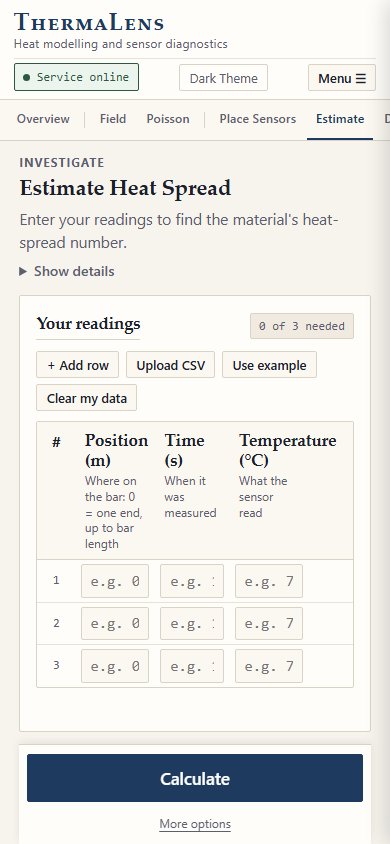
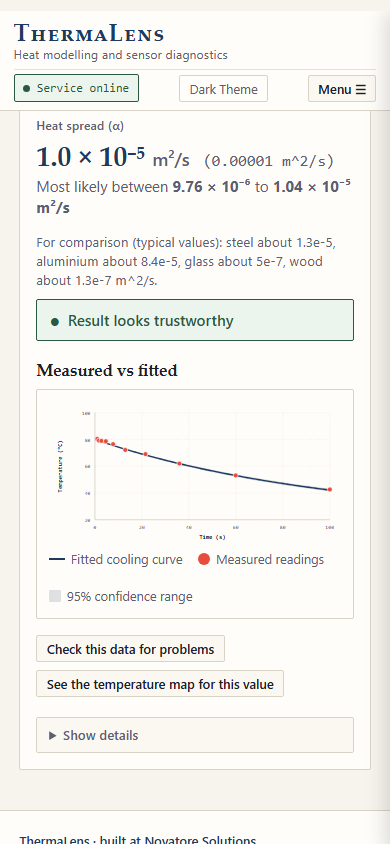
feat(estimate): comment out setup loader, add setup mismatch safety warning and result readability comparison, bump to thermalens-v40

diff --git a/service/static/app.js b/service/static/app.js
@@ -370,6 +370,17 @@ function formatScientificReal(val, sigDigits = 2) {
   return `${mantissa} × 10${supExp}`;
 }
 
+function formatPlainDecimal(val, sigFigs = 2) {
+  if (val === null || val === undefined || isNaN(val)) return '-';
+  if (val === 0) return '0';
+  if (Math.abs(val) >= 1) return Number(val.toPrecision(sigFigs)).toString();
+  const order = Math.floor(Math.log10(Math.abs(val)));
+  const dec = Math.max(0, -order + sigFigs - 1);
+  let s = val.toFixed(dec);
+  s = s.replace(/(\.\d*?[1-9])0+$/, '$1');
+  return s;
+}
+
 function computeNiceAxis(minVal, maxVal, targetCount = 4) {
   const span = maxVal - minVal;
   if (span <= 0) return { min: minVal, max: maxVal + 1, ticks: [minVal, maxVal + 1] };
@@ -418,6 +429,42 @@ const DEFAULT_ESTIMATE_SCALED_ROWS = [
 ];
 
 const DEFAULT_ESTIMATE_EXAMPLE = DEFAULT_ESTIMATE_EXAMPLE_ROWS.map(r => `${r.x}, ${r.t}, ${r.u}`).join('\n');
+
+function isUneditedDefaultExampleReadings() {
+  const tbody = document.getElementById('est-table-tbody');
+  if (!tbody || tbody.children.length !== DEFAULT_ESTIMATE_EXAMPLE_ROWS.length) return false;
+  const rows = Array.from(tbody.children);
+  for (let i = 0; i < rows.length; i++) {
+    const inputs = rows[i].querySelectorAll('.cell-input');
+    if (!inputs || inputs.length < 3) return false;
+    const x = parseFloat(inputs[0].value);
+    const t = parseFloat(inputs[1].value);
+    const u = parseFloat(inputs[2].value);
+    const expected = DEFAULT_ESTIMATE_EXAMPLE_ROWS[i];
+    if (isNaN(x) || isNaN(t) || isNaN(u)) return false;
+    if (Math.abs(x - expected.x) > 1e-3 || Math.abs(t - expected.t) > 1e-3 || Math.abs(u - expected.u) > 1e-2) {
+      return false;
+    }
+  }
+  return true;
+}
+
+function isDefaultExampleSetup() {
+  const L = parseFloat(document.getElementById('est-bar-length')?.value || '0.1');
+  const T = parseFloat(document.getElementById('est-experiment-time')?.value || '100');
+  const Tb = parseFloat(document.getElementById('est-temp-edge')?.value || '20');
+  const Tp = parseFloat(document.getElementById('est-temp-peak')?.value || '80');
+  return Math.abs(L - 0.1) < 1e-4 && Math.abs(T - 100.0) < 1e-4 && Math.abs(Tb - 20.0) < 1e-4 && Math.abs(Tp - 80.0) < 1e-4;
+}
+
+function checkEstimateExampleMismatch() {
+  const noteAboveTable = document.getElementById('est-example-mismatch-note');
+  const isMismatch = isUneditedDefaultExampleReadings() && !isDefaultExampleSetup();
+  if (noteAboveTable) {
+    noteAboveTable.style.display = isMismatch ? 'flex' : 'none';
+  }
+  return isMismatch;
+}
 
 // -------------------------------------------------------------------------------------------------
 // Shared Readings Across Tabs ("My readings")
@@ -650,6 +697,8 @@ function clearEstimateResultState() {
   if (stateContainer) stateContainer.innerHTML = '';
   const estCrossBanner = document.getElementById('est-crosscheck-banner');
   if (estCrossBanner) estCrossBanner.style.display = 'none';
+  const resMismatchNote = document.getElementById('est-result-mismatch-note');
+  if (resMismatchNote) resMismatchNote.style.display = 'none';
 }
 
 function validateEstimateTable() {
@@ -856,12 +905,14 @@ function initEstimateWorkbench() {
     barLengthInput.addEventListener('input', () => {
       validateEstimateTable();
       clearEstimateResultState();
+      checkEstimateExampleMismatch();
     });
   }
   if (expDurationInput) {
     expDurationInput.addEventListener('input', () => {
       validateEstimateTable();
       clearEstimateResultState();
+      checkEstimateExampleMismatch();
     });
   }
 
@@ -872,12 +923,14 @@ function initEstimateWorkbench() {
     tempPeakInput.addEventListener('input', () => {
       validateEstimateTable();
       clearEstimateResultState();
+      checkEstimateExampleMismatch();
     });
   }
   if (tempEdgeInput) {
     tempEdgeInput.addEventListener('input', () => {
       validateEstimateTable();
       clearEstimateResultState();
+      checkEstimateExampleMismatch();
     });
   }
 
@@ -1020,6 +1073,7 @@ function initEstimateWorkbench() {
       if (e.target.classList.contains('cell-input')) {
         validateEstimateTable();
         clearEstimateResultState();
+        checkEstimateExampleMismatch();
         syncSharedReadings('est');
       }
     });
@@ -1099,6 +1153,7 @@ function initEstimateWorkbench() {
         if (heatSine) heatSine.checked = true;
         setEstimateRows(DEFAULT_ESTIMATE_EXAMPLE_ROWS, 'use_example');
       }
+      checkEstimateExampleMismatch();
       STATE.isEstimateDemo = false;
       const note = document.getElementById('est-removed-sensor-note');
       if (note) note.style.display = 'none';
@@ -1573,12 +1628,13 @@ async function executeParameterEstimate() {
       if (sublineEl) sublineEl.textContent = 'The twin could not calculate a trustworthy heat spread from these readings.';
     } else if (isRealResult) {
       const alphaStr = formatScientificReal(alphaHat, 2);
+      const plainDec = formatPlainDecimal(alphaHat);
       const ciLoStr = formatScientificReal(ci95[0], 3);
       const ciHiStr = formatScientificReal(ci95[1], 3);
 
       if (labelEl) labelEl.textContent = 'Heat spread (α)';
-      if (numberEl) numberEl.innerHTML = `${alphaStr} <span style="font-size: 1.1rem; font-weight: 500; font-family: var(--font-sans); color: var(--text-muted);">m&sup2;/s</span>`;
-      if (headlineEl) headlineEl.innerHTML = `Heat spread (α): <strong>${alphaStr} m&sup2;/s</strong>`;
+      if (numberEl) numberEl.innerHTML = `${alphaStr} <span style="font-size: 1.1rem; font-weight: 500; font-family: var(--font-sans); color: var(--text-muted);">m&sup2;/s</span> <span id="est-decimal-value" class="mono" style="font-size: 1rem; font-weight: 400; color: var(--text-muted); margin-left: 0.4rem;">(${plainDec} m^2/s)</span>`;
+      if (headlineEl) headlineEl.innerHTML = `Heat spread (α): <strong>${alphaStr} m&sup2;/s (${plainDec} m^2/s)</strong>`;
       if (sublineEl) sublineEl.innerHTML = `Most likely between <strong>${ciLoStr}</strong> to <strong>${ciHiStr} m&sup2;/s</strong>`;
     } else {
       if (labelEl) labelEl.textContent = 'Heat spread (α)';
@@ -1587,7 +1643,19 @@ async function executeParameterEstimate() {
       if (sublineEl) sublineEl.innerHTML = `Most likely between <strong>${ci95[0].toFixed(3)}</strong> to <strong>${ci95[1].toFixed(3)}</strong>`;
     }
 
-    // Traffic-Light Line
+    const matComp = document.getElementById('est-material-comparison');
+    if (matComp) {
+      matComp.style.display = isRealResult ? 'block' : 'none';
+      matComp.textContent = 'For comparison (typical values): steel about 1.3e-5, aluminium about 8.4e-5, glass about 5e-7, wood about 1.3e-7 m^2/s.';
+    }
+
+    // Traffic-Light Line & Mismatch Check
+    const isMismatch = isUneditedDefaultExampleReadings() && !isDefaultExampleSetup();
+    const resMismatchNote = document.getElementById('est-result-mismatch-note');
+    if (resMismatchNote) {
+      resMismatchNote.style.display = isMismatch ? 'flex' : 'none';
+    }
+
     const banner = document.getElementById('est-traffic-banner');
     const bannerTitle = document.getElementById('est-traffic-title');
     let bannerLevel = 'green';
@@ -1596,6 +1664,9 @@ async function executeParameterEstimate() {
     if (flags.model_invalid) {
       bannerLevel = 'red';
       bannerText = "We can't give a reliable number: your readings do not fit the heat model";
+    } else if (isMismatch) {
+      bannerLevel = 'amber';
+      bannerText = 'Check this result: setup and example readings disagree';
     } else if (flags.out_of_range || flags.at_bound) {
       bannerLevel = 'amber';
       bannerText = 'Check this result: value is near the edge of the tested range';
@@ -2481,6 +2552,7 @@ function initDiagnoseWorkbench() {
       renderOptions(diagProfileSelect);
       if (estProfileSelect) renderOptions(estProfileSelect);
 
+      /* HIDDEN-UI: estimate bar setup loader (uncomment to restore)
       const estLoadSetupSelect = document.getElementById('est-load-setup-select');
       if (estLoadSetupSelect) {
         estLoadSetupSelect.innerHTML = '<option value="">— Select a saved bar\'s setup —</option>';
@@ -2507,6 +2579,7 @@ function initDiagnoseWorkbench() {
           estLoadSetupSelect.appendChild(gSaved);
         }
       }
+      */
 
       const targetId = selectedProfileId || (STATE.currentProfile ? STATE.currentProfile.id : null);
       if (targetId && profiles.some(p => p.id === targetId)) {
@@ -2653,6 +2726,7 @@ function initDiagnoseWorkbench() {
       selectAndApplyProfile(e.target.value);
     });
   }
+  /* HIDDEN-UI: estimate bar setup loader (uncomment to restore)
   const estLoadSetupSelect = document.getElementById('est-load-setup-select');
   if (estLoadSetupSelect) {
     estLoadSetupSelect.addEventListener('change', (e) => {
@@ -2672,8 +2746,10 @@ function initDiagnoseWorkbench() {
       if (estSig) estSig.value = String(profile.sensor_accuracy || 0.5);
       if (typeof validateEstimateTable === 'function') validateEstimateTable();
       clearEstimateResultState();
+      checkEstimateExampleMismatch();
     });
   }
+  */
 
   // Check differences and matching suggestions
   function checkProfileSetupDifferencesAndSuggestions() {

diff --git a/service/static/index.html b/service/static/index.html
@@ -5,7 +5,7 @@
   <meta name="viewport" content="width=device-width, initial-scale=1.0">
   <title>ThermaLens — Thermal PDE Inference &amp; Diagnostics Instrument</title>
   <meta name="description" content="Production-grade physical parameter estimation, multi-hypothesis sensor anomaly diagnostics, and neural operator PDE inference.">
-  <link rel="stylesheet" href="style.css?v=thermalens-v39">
+  <link rel="stylesheet" href="style.css?v=thermalens-v40">
 </head>
 <body>
 
@@ -381,6 +381,12 @@
             <button type="button" class="btn btn-secondary btn-sm" id="est-undo-remove-sensor-btn" style="padding: 0.15rem 0.5rem; font-size: 0.8rem;">Undo</button>
           </div>
 
+          <!-- Note when custom setup differs from default example readings -->
+          <div id="est-example-mismatch-note" class="traffic-light-line amber" style="display: none; margin-bottom: 0.75rem;">
+            <span class="traffic-light-dot">▲</span>
+            <span id="est-example-mismatch-text">These readings were made for the default example bar (0.1 m, 100 s, 20 to 80 C). Replace them with your own readings before estimating.</span>
+          </div>
+
           <!-- Editable Table -->
           <div class="readings-table-wrap">
             <table class="readings-table" id="est-readings-table">
@@ -414,13 +420,15 @@
         <div class="card" id="est-about-test-card">
           <h2 class="card-title">About your test</h2>
           
-          <!-- Optional shortcut: Load a saved bar's setup -->
+          <!-- HIDDEN-UI: estimate bar setup loader (uncomment to restore) -->
+          <!--
           <div style="margin-bottom: 0.85rem;">
             <label for="est-load-setup-select" class="form-label" style="font-size: 0.82rem; color: var(--text-muted); margin-bottom: 0.25rem;">Load a saved bar's setup</label>
             <select id="est-load-setup-select" class="form-select" style="max-width: 380px; font-size: 0.85rem; padding: 0.32rem 0.5rem; border-radius: var(--radius-sm); border: 1px solid var(--rule-base);">
               <option value="">— Select a saved bar's setup —</option>
             </select>
           </div>
+          -->
 
           <!-- Four REQUIRED fields in 2x2 grid (Always visible, no collapsed details) -->
           <div id="est-real-units-container">
@@ -529,11 +537,22 @@
             <div class="result-subline" id="est-plain-subline">Most likely between 0.095 and 0.102</div>
             <span id="est-out-alpha" style="display: none;">-</span>
 
+            <!-- Material comparison line -->
+            <div id="est-material-comparison" style="margin-top: 0.35rem; margin-bottom: 0.65rem; font-size: 0.84rem; color: var(--text-muted); line-height: 1.4;">
+              For comparison (typical values): steel about 1.3e-5, aluminium about 8.4e-5, glass about 5e-7, wood about 1.3e-7 m^2/s.
+            </div>
+
             <!-- ONE Traffic-Light Line -->
             <div id="est-traffic-banner" class="traffic-light-line green">
               <span class="traffic-light-dot" id="est-traffic-icon">●</span>
               <span class="traffic-light-text" id="est-traffic-title">Result looks trustworthy</span>
               <span id="est-traffic-reasons" style="display: none;"></span>
+            </div>
+
+            <!-- Note next to result if setup and example readings disagree -->
+            <div id="est-result-mismatch-note" class="traffic-light-line amber" style="display: none; margin-top: 0.5rem;">
+              <span class="traffic-light-dot">▲</span>
+              <span>These readings were made for the default example bar (0.1 m, 100 s, 20 to 80 C). Replace them with your own readings before estimating.</span>
             </div>
 
 
@@ -2636,6 +2655,6 @@
   <!-- Floating Field Tooltip for Strip and Line Charts -->
   <div id="field-hover-tooltip" style="position: fixed; display: none; pointer-events: none; z-index: 9999; background: rgba(15, 23, 42, 0.92); color: #ffffff; padding: 4px 8px; border-radius: 4px; font-size: 0.75rem; font-family: ui-monospace, SFMono-Regular, Menlo, Monaco, Consolas, monospace; box-shadow: 0 2px 6px rgba(0,0,0,0.3); white-space: nowrap;"></div>
 
-  <script src="app.js?v=thermalens-v39"></script>
+  <script src="app.js?v=thermalens-v40"></script>
 </body>
 </html>

diff --git a/tests/test_playwright_estimate.py b/tests/test_playwright_estimate.py
@@ -224,11 +224,70 @@ def test_estimate_identical_regardless_of_diagnose_profile(live_server):
         est_result_profile1 = page.locator("#est-plain-number").text_content().strip()
         assert est_result_profile1 == est_result_initial, f"Estimate result changed after selecting Steel bar on Diagnose: {est_result_profile1} vs {est_result_initial}"
 
-        # 6. Verify the optional shortcut 'Load a saved bar's setup' exists on Estimate
-        est_load_sel = page.locator("#est-load-setup-select")
-        assert est_load_sel.is_visible()
-        # Also verify the bar-profile card is completely removed from Estimate
+        # 6. Verify the bar-profile card is completely removed from Estimate, and loader is hidden
         assert page.locator("#est-profile-card").count() == 0
         assert page.locator("#est-profile-select").count() == 0
+        # est-load-setup-select is commented out per HIDDEN-UI directive
+        assert page.locator("#est-load-setup-select").count() == 0
+
+        browser.close()
+
+def test_estimate_mismatch_amber_note_and_result_readability(live_server):
+    """Verify amber note when setup and example readings disagree, and result readability with comparison."""
+    port = live_server
+    with sync_playwright() as p:
+        browser = p.chromium.launch(headless=True)
+        page = browser.new_page(viewport={"width": 1440, "height": 900})
+
+        page.goto(f"http://127.0.0.1:{port}/#estimate")
+        page.wait_for_selector("#view-estimate.active")
+
+        # 1. Click 'Use example' -> fills table with default example readings (L=0.1, T=100, Tb=20, Tp=80)
+        page.click("#est-use-example-btn")
+        time.sleep(0.2)
+
+        # Mismatch note should NOT be visible when setup matches default example
+        assert not page.locator("#est-example-mismatch-note").is_visible()
+
+        # 2. Change Bar length to 0.2 m while table still has unedited default example readings
+        page.fill("#est-bar-length", "0.2")
+        time.sleep(0.1)
+
+        # Amber note must appear
+        assert page.locator("#est-example-mismatch-note").is_visible()
+        mismatch_text = page.locator("#est-example-mismatch-text").text_content()
+        assert "These readings were made for the default example bar (0.1 m, 100 s, 20 to 80 C). Replace them with your own readings before estimating." in mismatch_text
+
+        # 3. Calculate while mismatched -> Never present as trustworthy
+        page.click("#est-submit-btn")
+        page.wait_for_selector("#est-result-panel", state="visible")
+        banner_class = page.locator("#est-traffic-banner").get_attribute("class")
+        assert "green" not in banner_class, f"Mismatched estimate was presented as green/trustworthy: {banner_class}"
+        assert page.locator("#est-result-mismatch-note").is_visible()
+        res_note = page.locator("#est-result-mismatch-note").text_content()
+        assert "These readings were made for the default example bar (0.1 m, 100 s, 20 to 80 C). Replace them with your own readings before estimating." in res_note
+
+        # 4. Editing a reading in the table clears the amber note
+        page.fill("#est-readings-table tbody tr:first-child .cell-input[data-col='u']", "70.00")
+        time.sleep(0.1)
+        assert not page.locator("#est-example-mismatch-note").is_visible()
+
+        # 5. Reset to default example readings and default setup
+        page.click("#est-use-example-btn")
+        page.fill("#est-bar-length", "0.1")
+        time.sleep(0.1)
+        assert not page.locator("#est-example-mismatch-note").is_visible()
+
+        # 6. Calculate -> Result looks trustworthy & Result readability verified
+        page.click("#est-submit-btn")
+        page.wait_for_selector("#est-result-panel", state="visible")
+        banner_class = page.locator("#est-traffic-banner").get_attribute("class")
+        assert "green" in banner_class
+
+        num_text = page.locator("#est-plain-number").text_content()
+        assert "0.00001 m^2/s" in num_text
+
+        mat_text = page.locator("#est-material-comparison").text_content()
+        assert "For comparison (typical values): steel about 1.3e-5, aluminium about 8.4e-5, glass about 5e-7, wood about 1.3e-7 m^2/s." in mat_text
 
         browser.close()
